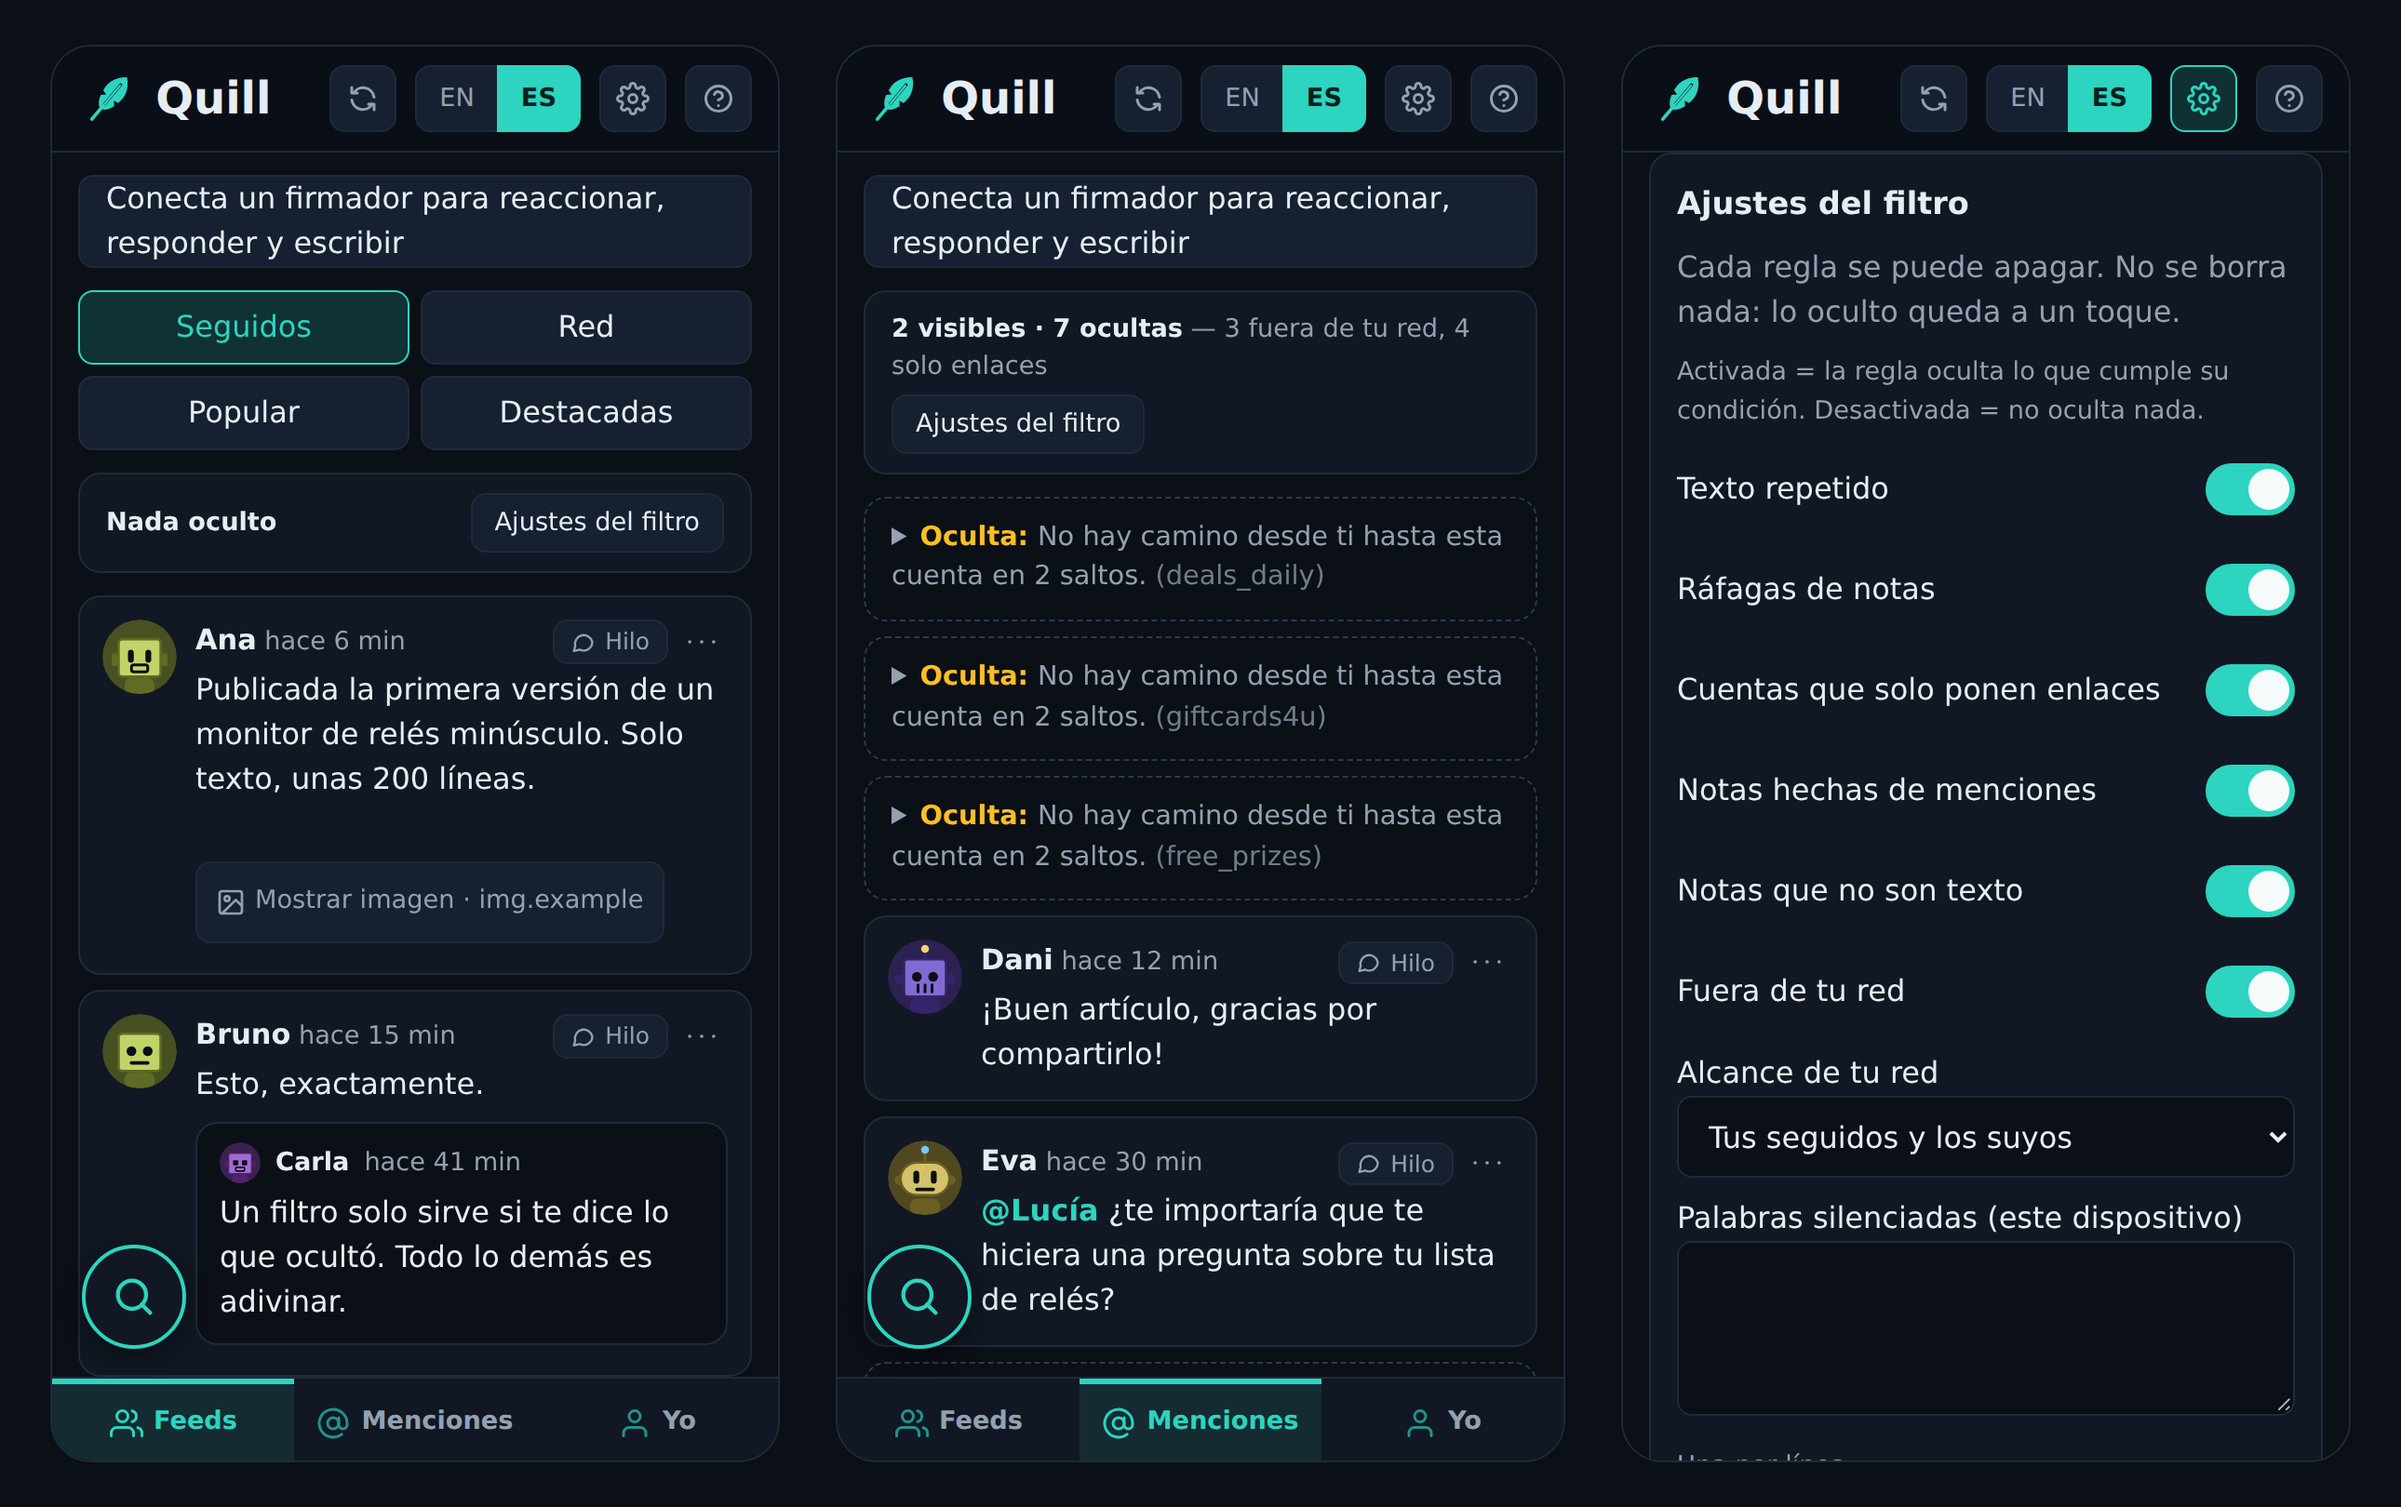
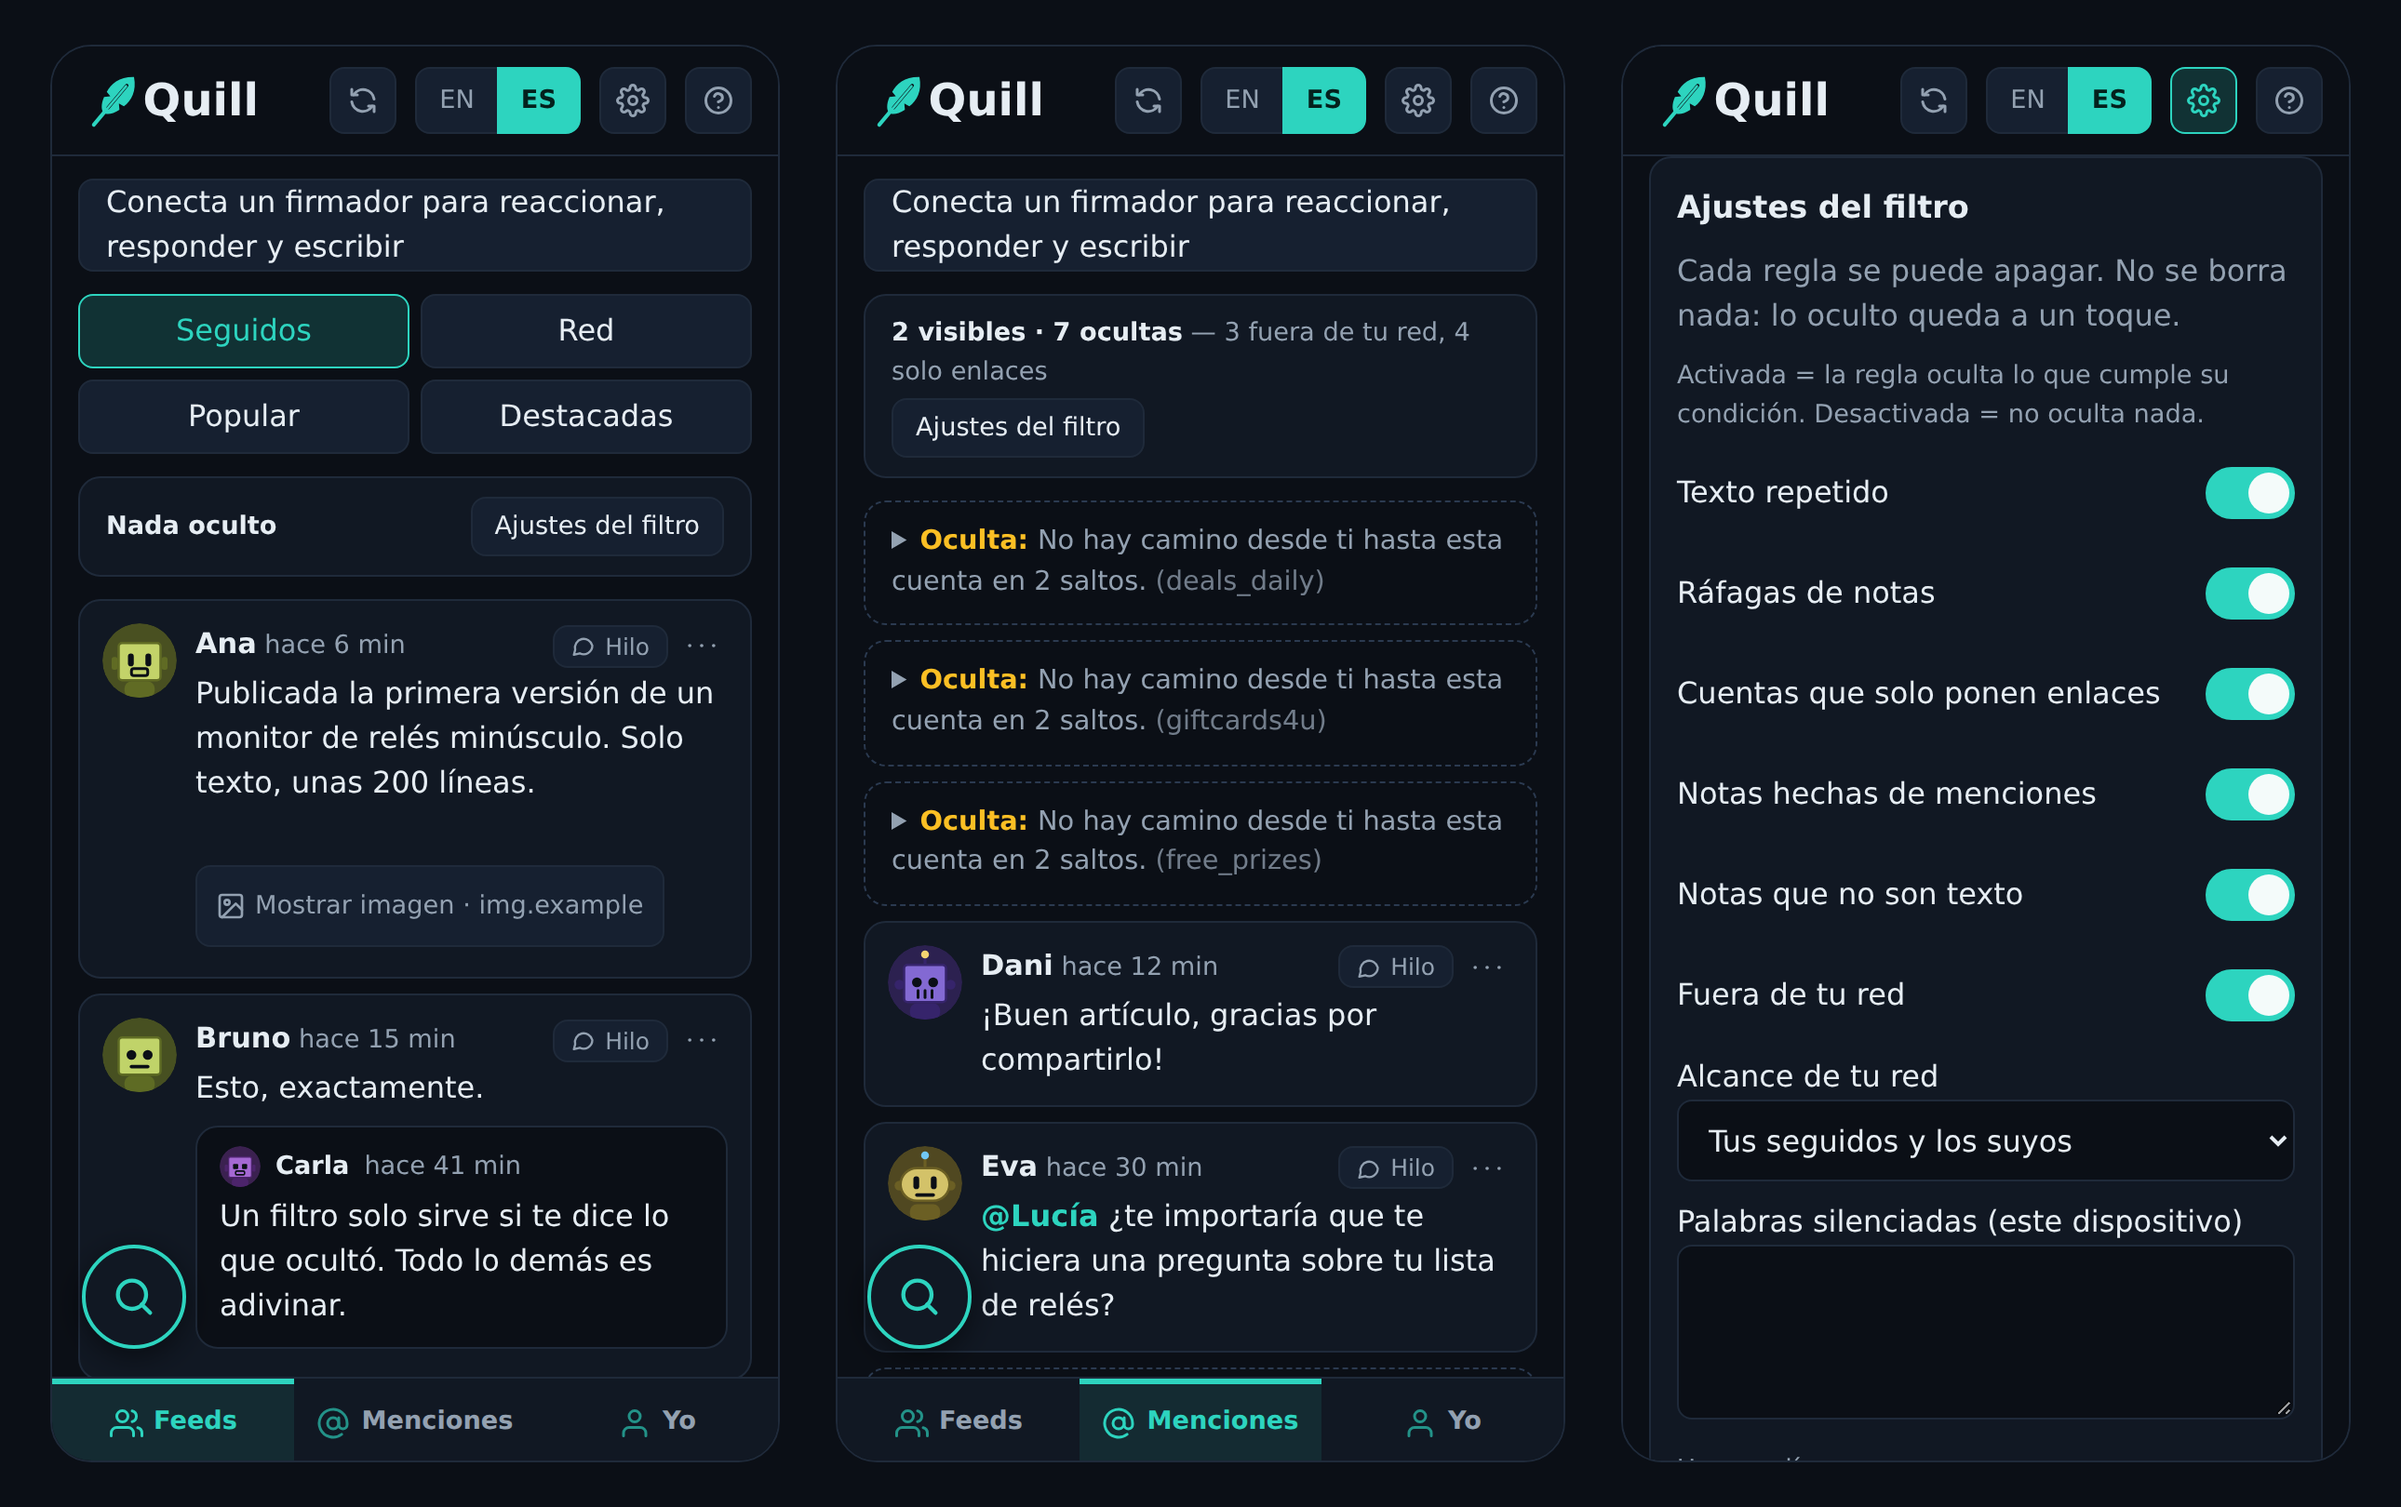
Header: the quill and the name read as one mark (no gap, the quill a little larger, its nib almost touching the Q)
Claude-Session: https://claude.ai/code/session_015hU65x1mk8yRSFgESuNvGb

diff --git a/src/style.css b/src/style.css
@@ -202,7 +202,7 @@ button.icon.on { color: var(--accent); border-color: var(--accent); background: 
 
 /* the quill next to the name */
 .top h1 { display: flex; align-items: center } /* no text line (and its strut below the baseline) around the logo: the header centres what you see */
-.top h1 a.wordmark { display: flex; align-items: center; gap: 8px; line-height: 1 }
+.top h1 a.wordmark { display: flex; align-items: center; gap: 0; line-height: 1 } /* the nib almost touches the Q: the quill writes the word */
 .wordmark .logo { flex: none }
 
 /* the note a quoted-note button was tapped from, above the note it opened */
@@ -238,7 +238,7 @@ button.icon.on { color: var(--accent); border-color: var(--accent); background: 
 .top .status.loading { position: absolute; width: 1px; height: 1px; margin: -1px; overflow: hidden; clip-path: inset(50%); white-space: nowrap; pointer-events: none }
 
 /* the logo is as tall as the name is big, whatever the text size */
-.wordmark .logo { width: 1.4em; height: 1.4em }
+.wordmark .logo { width: 1.6em; height: 1.6em; margin-right: -.15em } /* the drawing leaves air in its box: a little larger and pulled in so quill and name read as one mark */
 
 /* the refresh button turns while notes are loading (there is no "Loading…" line any more) */
 button.icon.spinning svg { animation: spin .9s linear infinite }
